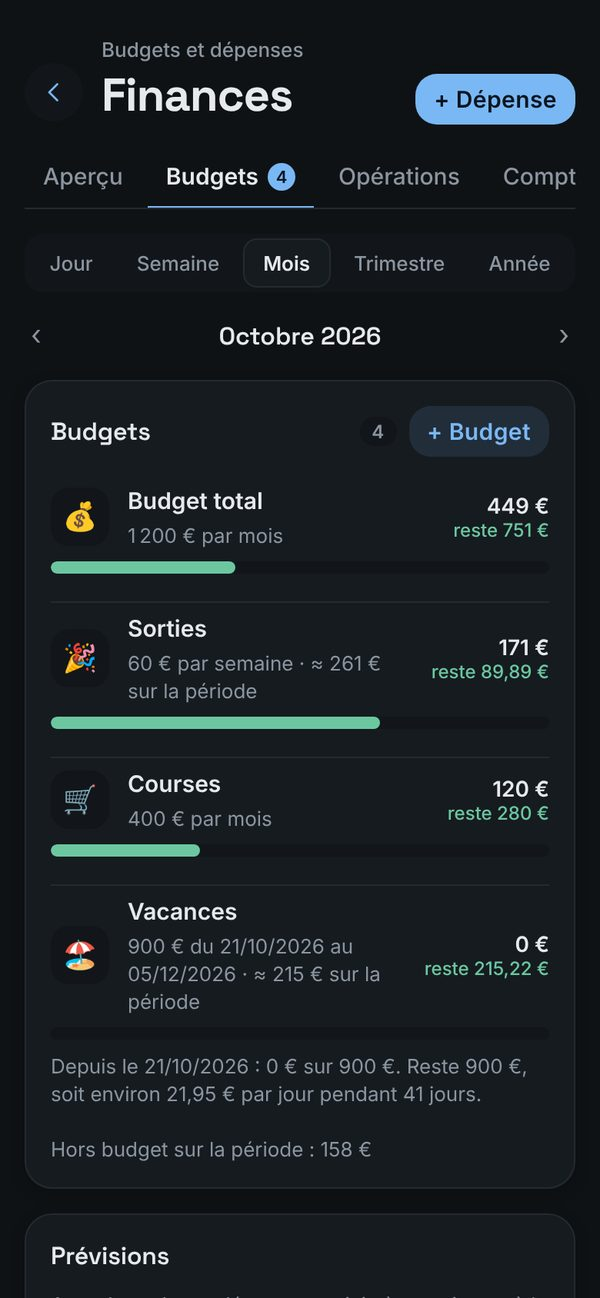
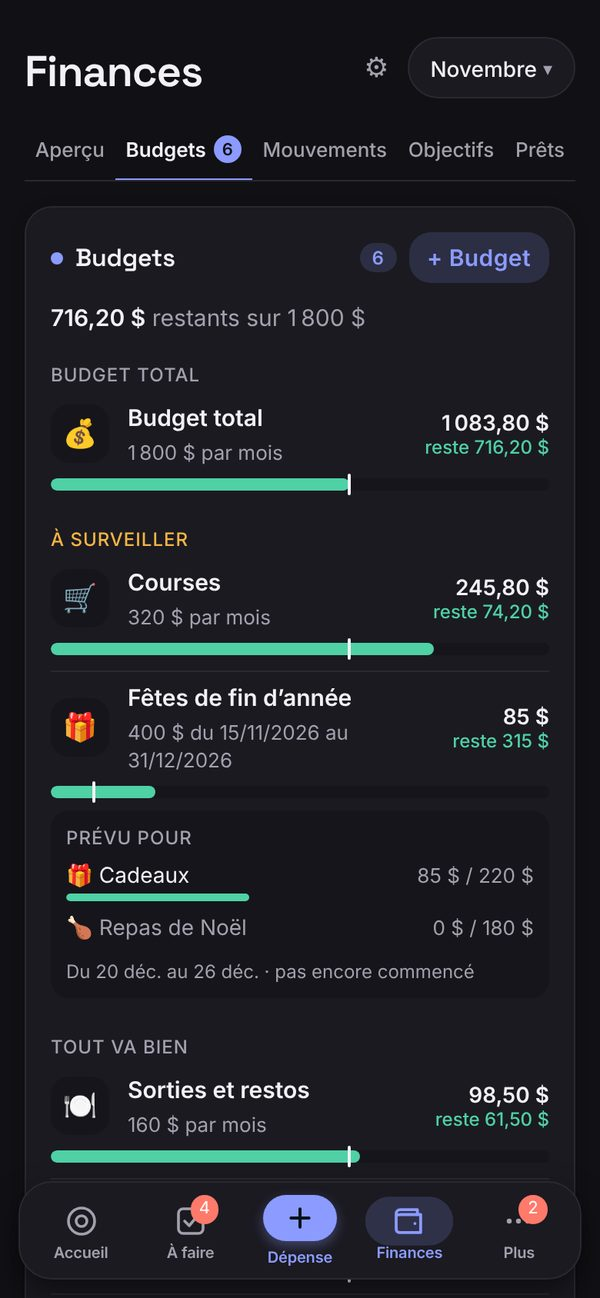
Page d'accueil : finances mises en avant, textes et captures à jour
- Nouvelle section Finances juste après l'en-tête (et en tête du menu) :
  ce qui est gratuit (budgets par jour, semaine, mois ou enveloppe ;
  dépense en une phrase ; objectifs), puis ce que la formule Finances
  ajoute, avec son prix et l'essai de 14 jours.
- Textes corrigés selon les formules actuelles : l'import de relevés et
  les autres devises relèvent de Finances, les brouillons de relance du
  copilote de Pro. Nouvelle question : Me ne se connecte pas à la banque.
- Captures refaites depuis l'app actuelle avec des données d'exemple au
  18 novembre 2026 : Aujourd'hui (téléphone et ordinateur), Finances,
  Budgets, bilan du mois, projet et planning. Copies du manifeste à jour.
- Image de partage (og.jpg) refaite avec le nouveau logo et les écrans
  Finances ; données structurées en dollars avec les trois formules.

Claude-Session: https://claude.ai/code/session_013pZHjea4pwY6EHsaSiyPHp

diff --git a/src/components/accueil-public.tsx b/src/components/accueil-public.tsx
@@ -21,49 +21,49 @@ const EXEMPLES: { label: string; phrase: string; puces: string[]; rubrique: stri
   { label: 'Relance', phrase: 'Relancer Paul jeudi pour le devis', puces: ['Relance', 'Paul', 'jeudi', 'Devis'], rubrique: 'Relances', titre: 'Relancer Paul', detail: 'Au sujet du devis', badge: 'Jeudi', suite: 'Ajoutée à tes relances, avec un rappel jeudi.', couleur: 'corail' },
   { label: 'Tâche', phrase: 'Envoyer la facture demain urgent', puces: ['Tâche', 'Envoyer la facture', 'demain', 'importante'], rubrique: 'Tâches', titre: 'Envoyer la facture', detail: 'Importante', badge: 'Demain', suite: 'Ajoutée à tes tâches, pour demain.', couleur: 'ambre' },
   { label: 'Habitude', phrase: 'Sport tous les jours', puces: ['Habitude', 'Sport', 'chaque jour'], rubrique: 'Habitudes', titre: 'Sport', detail: 'Chaque jour', badge: '+10 pts', suite: 'Ajoutée à tes habitudes, à cocher chaque jour.', couleur: 'menthe' },
-  { label: 'Dépense', phrase: '20 usd resto hier', puces: ['Dépense', '20 $', 'Resto', 'hier'], rubrique: 'Finances', titre: 'Resto', detail: 'Hier', badge: '20 $', suite: 'Ajoutée à tes dépenses, convertie dans ta devise.', couleur: 'indigo' },
+  { label: 'Dépense', phrase: '20 usd resto hier', puces: ['Dépense', '20 $', 'Resto', 'hier'], rubrique: 'Finances', titre: 'Resto', detail: 'Hier', badge: '20 $', suite: 'Ajoutée à tes dépenses, dans la catégorie Restaurants.', couleur: 'indigo' },
 ];
 
 /** Les rubriques, chacune dans sa couleur, comme dans l'app. */
 const RUBRIQUES: { nom: string; texte: string; exemple: string; etat: string; couleur: Vive; pro?: boolean }[] = [
-  { nom: 'Relances', texte: 'Me te dit qui relancer et quand, et prépare le brouillon du message.', exemple: 'Paul · devis', etat: 'Jeudi', couleur: 'corail' },
+  { nom: 'Relances', texte: 'Me te dit qui relancer et quand, avec un rappel discret ou insistant selon l’enjeu.', exemple: 'Paul · devis', etat: 'Jeudi', couleur: 'corail' },
   { nom: 'Tâches', texte: 'Tâches, projets et sous-tâches, avec un rappel à la date qui compte.', exemple: 'Envoyer le contrat signé', etat: 'Aujourd’hui', couleur: 'ambre' },
   { nom: 'Habitudes', texte: 'Coche chaque jour, garde ta série et gagne des points.', exemple: 'Lecture · 20 min', etat: '6 j de série', couleur: 'menthe' },
-  { nom: 'Finances', texte: 'Budgets, revenus et prévisions dans ta devise, avec ton relevé bancaire importé.', exemple: 'Courses · reste du mois', etat: '120 $', couleur: 'indigo' },
+  { nom: 'Finances', texte: 'Budgets, dépenses, revenus et objectifs, avec ce qu’il te reste à dépenser chaque jour.', exemple: 'Courses · reste du mois', etat: '74 $', couleur: 'indigo' },
   { nom: 'Mails', texte: 'Gmail et Outlook dans l’app : un mail devient une relance ou une tâche.', exemple: 'Sophie · proposition', etat: 'Lié', couleur: 'lagon', pro: true },
   { nom: 'Copilote', texte: 'Pose une question, reçois ton plan du jour et tes brouillons de relance.', exemple: 'Plan du jour', etat: '5 étapes', couleur: 'lilas', pro: true },
 ];
 
 const ATOUTS: { icone: IconeNom; titre: string; texte: string; court: string; couleur: Vive }[] = [
   { icone: 'cloche', titre: 'Un rappel à ta façon', texte: 'Discret, insistant ou en coach : tu choisis le ton de chaque tâche et de chaque habitude.', court: 'Discret, insistant ou en coach.', couleur: 'ambre' },
-  { icone: 'portefeuille', titre: 'Dans ta devise', texte: 'Dollars, euros, FCFA ou 15 autres devises, converties pour toi. Ton relevé CSV s’importe en un geste.', court: 'Dollars, euros, FCFA et 15 autres.', couleur: 'indigo' },
+  { icone: 'portefeuille', titre: 'Dans ta devise', texte: 'Dollars, francs congolais, euros, FCFA ou 14 autres : tes budgets se tiennent dans la devise que tu utilises.', court: 'Dollars, francs, euros, FCFA et 14 autres.', couleur: 'indigo' },
   { icone: 'micro', titre: 'À la voix ou au clavier', texte: 'Dicte ta phrase quand tu as les mains prises. Me la comprend comme si tu l’avais tapée.', court: 'Dicte ta phrase, les mains prises.', couleur: 'lilas' },
   { icone: 'onde', titre: 'Sur tous tes appareils', texte: 'Téléphone ou ordinateur : ce que tu modifies à deux endroits est fusionné, jamais écrasé.', court: 'Téléphone et ordinateur, toujours à jour.', couleur: 'menthe' },
 ];
 
-/** Captures de l'app (données d'exemple), prises sur téléphone (390 px) et sur ordinateur (1280 px). */
-const ECRANS: { key: 'journee' | 'budgets' | 'projets'; court: string; titre: string; texte: string; couleur: Vive; tel: ImageSourcePropType; altTel: string; pc: ImageSourcePropType; altPc: string }[] = [
+/** Captures de l'app (données d'exemple au 18 novembre 2026), prises sur téléphone (390 px) et sur ordinateur (1440 px). */
+const ECRANS: { key: 'journee' | 'finances' | 'projets'; court: string; titre: string; texte: string; couleur: Vive; tel: ImageSourcePropType; altTel: string; pc: ImageSourcePropType; altPc: string }[] = [
   {
     key: 'journee',
     court: 'Ta journée',
     titre: 'Ta journée en un coup d’œil',
-    texte: 'Qui relancer, quoi faire, quelles habitudes cocher.',
+    texte: 'La mission du jour, le prochain rendez-vous, qui relancer et quelles habitudes cocher.',
     couleur: 'indigo',
     tel: require('@/assets/images/apercu/tel-accueil.jpg'),
     altTel: "L'écran Aujourd'hui : la mission du jour, le prochain rendez-vous et la liste des choses à faire",
-    pc: require('@/assets/images/apercu/pc-finances.jpg'),
-    altPc: 'Finances sur ordinateur : le dépensé du mois, le reste, et les dépenses jour par jour face au budget',
+    pc: require('@/assets/images/apercu/pc-accueil.jpg'),
+    altPc: "L'écran Aujourd'hui sur ordinateur : la mission du jour, les choses à faire, le résumé des finances et des objectifs",
   },
   {
-    key: 'budgets',
-    court: 'Budgets',
+    key: 'finances',
+    court: 'Finances',
     titre: 'Des budgets qui tiennent',
     texte: 'Par jour, par mois ou jusqu’à une date, avec ce qu’il te reste à dépenser.',
     couleur: 'indigo',
     tel: require('@/assets/images/apercu/tel-budgets.jpg'),
-    altTel: "L'onglet Budgets de Finances : un budget total, des budgets par catégorie et un budget de vacances",
+    altTel: "L'onglet Budgets de Finances : le budget total, les budgets à surveiller et l'enveloppe des fêtes avec son plan",
     pc: require('@/assets/images/apercu/pc-finances.jpg'),
-    altPc: 'Finances sur ordinateur : le dépensé du mois, le reste, et les dépenses jour par jour face au budget',
+    altPc: 'Finances sur ordinateur : ce qu’il reste à dépenser ce mois-ci, les budgets et les paiements à venir',
   },
   {
     key: 'projets',
@@ -78,14 +78,34 @@ const ECRANS: { key: 'journee' | 'budgets' | 'projets'; court: string; titre: st
   },
 ];
 
+/** Ce que Finances fait dès l'offre Gratuit. */
+const FINANCES_GRATUIT: { icone: IconeNom; titre: string; texte: string }[] = [
+  { icone: 'jour', titre: 'Des budgets à ta mesure', texte: 'Par jour, par semaine, par mois ou jusqu’à une date, comme les fêtes. Me te dit si tu tiens le rythme.' },
+  { icone: 'crayon', titre: 'Une dépense en une phrase', texte: '« 20 usd resto hier » suffit : le montant, le jour et la catégorie sont trouvés pour toi.' },
+  { icone: 'etoile', titre: 'Des objectifs qui avancent', texte: 'Voyage, fonds d’urgence : Me calcule le versement de chaque mois pour tenir la date.' },
+];
+
+/** Ce que la formule Finances ajoute, dans l'ordre de `INCLUS_FINANCES` (lib/abonnement.ts). */
+const FINANCES_FORMULE: { icone: IconeNom; titre: string; texte: string }[] = [
+  { icone: 'trombone', titre: 'Reçus et factures', texte: 'La photo du reçu ou le PDF de la facture, joint à la dépense.' },
+  { icone: 'dossier', titre: 'Relevés importés', texte: 'Le relevé CSV de ta banque ou de ton mobile money, rangé sans doublon.' },
+  { icone: 'portefeuille', titre: 'Comptes et devises', texte: 'Banque, M-Pesa et cash, chacun avec son solde, en dollars comme en francs.' },
+  { icone: 'equipe', titre: 'Prêts et dettes', texte: 'Qui te doit quoi, ce que tu dois, et un rappel le jour prévu.' },
+  { icone: 'calendrier', titre: 'Paiements à venir', texte: 'Loyer, internet, abonnements : Me te prévient la veille.' },
+  { icone: 'stats', titre: 'Bilan du mois', texte: 'Où est parti ton argent, comparé au mois d’avant, envoyé le 1er.' },
+  { icone: 'cloche', titre: 'Alertes de budget', texte: 'En push ou par email, dès 80 %, 90 % ou au dépassement.' },
+];
+
 const QUESTIONS: { question: string; reponse: string }[] = [
   { question: 'Faut-il payer pour commencer ?', reponse: `Non. Ton compte commence avec ${TARIFS.essaiJours} jours de tout Pro offerts, sans moyen de paiement. À la fin, tu restes en Gratuit et tu gardes toutes tes données, ou tu choisis Finances (${fmtPrix(TARIFS.finances.mensuel, TARIFS.devise)} par mois) ou Pro (${fmtPrix(TARIFS.pro.mensuel, TARIFS.devise)} par mois).` },
   { question: 'Comment se fait le paiement ?', reponse: 'Par mobile money (M-Pesa, Orange Money ou Airtel Money) avec FlexPaie, en une fois pour un mois ou pour un an.' },
   { question: 'L’abonnement se renouvelle-t-il tout seul ?', reponse: 'Non. Me te prévient avant la fin de ta période, et tu choisis de continuer ou non.' },
+  { question: 'Me se connecte-t-il à ma banque ?', reponse: 'Non. Tu notes tes dépenses toi-même, ou, avec Finances, tu importes le relevé CSV exporté depuis ta banque ou ton mobile money. Me n’a jamais tes identifiants bancaires.' },
   { question: 'Puis-je l’utiliser sur téléphone et ordinateur ?', reponse: 'Oui. Tu retrouves les mêmes données partout, et ce que tu modifies à deux endroits est fusionné.' },
 ];
 
 const SECTIONS = [
+  { key: 'finances', label: 'Finances' },
   { key: 'rubriques', label: 'Fonctionnalités' },
   { key: 'apercu', label: 'Aperçu' },
   { key: 'tarifs', label: 'Tarifs' },
@@ -298,6 +318,121 @@ function Heros({ large, onConnexion, onInscription }: { large: boolean; onConnex
   );
 }
 
+/* ——— Finances, mises en avant ——— */
+
+/** Une fonction de Finances : pictogramme, titre et une phrase. */
+function Fonction({ icone, titre, texte, c, large }: { icone: IconeNom; titre: string; texte: string; c: string; large: boolean }) {
+  return (
+    <View style={{ flexDirection: 'row', alignItems: 'flex-start', gap: 14 }}>
+      <View style={{ width: large ? 40 : 36, height: large ? 40 : 36, borderRadius: 12, backgroundColor: alpha(c, C.sombre ? 0.16 : 0.12), alignItems: 'center', justifyContent: 'center' }}>
+        <Icone nom={icone} color={c} size={large ? 19 : 18} />
+      </View>
+      <View style={{ flex: 1, gap: 3 }}>
+        <Text accessibilityRole="header" aria-level={3} style={{ color: C.ink, fontFamily: F.titreM, fontSize: large ? 17 : 16, lineHeight: large ? 23 : 21 }}>
+          {titre}
+        </Text>
+        <Text style={{ color: C.muted, fontFamily: F.texte, fontSize: large ? 15 : 14, lineHeight: large ? 23 : 21 }}>{texte}</Text>
+      </View>
+    </View>
+  );
+}
+
+/** Deux écrans de Finances, l'un devant l'autre : ce qu'il reste à dépenser et le bilan du mois. */
+function DeuxTelephones({ largeur }: { largeur: number }) {
+  const decale = Math.round(largeur * 0.62);
+  const hauteur = Math.round((largeur - 12) * (1298 / 600)) + 12;
+  return (
+    <View style={{ width: largeur + decale, height: hauteur + 40, alignSelf: 'center' }}>
+      <View style={{ position: 'absolute', left: 0, top: 40, opacity: 0.9 }}>
+        <Telephone image={require('@/assets/images/apercu/tel-bilan.jpg')} alt="Le bilan du mois : dépensé, reçu, mis de côté, et où est parti l'argent par catégorie" largeur={largeur} />
+      </View>
+      <View style={{ position: 'absolute', left: decale, top: 0 }}>
+        <Telephone image={require('@/assets/images/apercu/tel-finances.jpg')} alt="L'aperçu de Finances : ce qu'il reste à dépenser ce mois-ci, par jour, et le reste de chaque budget" largeur={largeur} />
+      </View>
+    </View>
+  );
+}
+
+function Finances({ large, onInscription }: { large: boolean; onInscription: () => void }) {
+  const t = teinte(vive('indigo'));
+  const prix = fmtPrix(TARIFS.finances.mensuel, TARIFS.devise);
+  const prixAn = fmtPrix(TARIFS.finances.annuel, TARIFS.devise);
+  const formule = (
+    <View style={{ gap: large ? 28 : 20, padding: large ? 32 : 20, borderRadius: large ? 28 : 22, backgroundColor: C.surface, borderWidth: 1.5, borderColor: t.ligne }}>
+      <View style={{ flexDirection: large ? 'row' : 'column', alignItems: large ? 'center' : 'stretch', justifyContent: 'space-between', gap: large ? 32 : 14 }}>
+        <View style={{ gap: 6, flexShrink: 1 }}>
+          <View style={{ flexDirection: 'row', alignItems: 'center', gap: 8 }}>
+            <Point c={t.c} taille={10} />
+            <Text accessibilityRole="header" aria-level={3} style={{ color: C.ink, fontFamily: F.titreM, fontSize: large ? 22 : 19 }}>
+              Va plus loin avec la formule Finances
+            </Text>
+          </View>
+          <Text style={{ color: C.muted, fontFamily: F.texte, fontSize: large ? 15 : 14, lineHeight: large ? 23 : 21 }}>
+            Tout ce qui précède reste gratuit. Finances ajoute ce qu’il faut pour tenir ton argent au propre, compte par compte.
+          </Text>
+        </View>
+        <View style={{ flexDirection: large ? 'row' : 'column', alignItems: large ? 'center' : 'stretch', gap: large ? 20 : 12 }}>
+          <View style={{ gap: 2, alignItems: large ? 'flex-end' : 'flex-start' }}>
+            <View style={{ flexDirection: 'row', alignItems: 'baseline', gap: 6 }}>
+              <Text style={{ color: C.ink, fontFamily: F.titre, fontSize: large ? 30 : 28, letterSpacing: -0.8 }}>{prix}</Text>
+              <Text style={{ color: C.muted, fontFamily: F.texteM, fontSize: 14 }}>par mois</Text>
+            </View>
+            <Text style={{ color: C.muted, fontFamily: F.texte, fontSize: 13 }}>ou {prixAn} par an</Text>
+          </View>
+          <Bouton label={`Essayer ${TARIFS.essaiJours} jours gratuits`} accessibilityLabel="Créer mon compte et essayer Finances" onPress={onInscription} />
+        </View>
+      </View>
+      <View style={{ height: 1, backgroundColor: C.line }} />
+      <View style={{ flexDirection: large ? 'row' : 'column', flexWrap: 'wrap', rowGap: large ? 28 : 18, columnGap: 28 }}>
+        {FINANCES_FORMULE.map((x) => (
+          <View key={x.titre} style={large ? { flexBasis: '22%', flexGrow: 1 } : undefined}>
+            <Fonction {...x} c={t.c} large={large} />
+          </View>
+        ))}
+        {large ? (
+          <View style={{ flexBasis: '22%', flexGrow: 1, justifyContent: 'center', padding: 16, borderRadius: 16, backgroundColor: C.sunk, borderWidth: 1, borderColor: C.line }}>
+            <Text style={{ color: C.muted, fontFamily: F.texte, fontSize: 14, lineHeight: 21 }}>
+              Pendant les {TARIFS.essaiJours} jours d’essai, tout est ouvert. Ensuite, tu choisis : Gratuit, Finances ou Pro.
+            </Text>
+          </View>
+        ) : null}
+      </View>
+    </View>
+  );
+
+  return (
+    <View style={{ backgroundColor: alpha(t.c, C.sombre ? 0.05 : 0.06), borderTopWidth: 1, borderBottomWidth: 1, borderColor: t.ligne }}>
+      <Bloc large={large} style={{ paddingVertical: large ? 104 : 40, gap: large ? 64 : 28 }}>
+        <View style={{ flexDirection: large ? 'row' : 'column', alignItems: large ? 'center' : 'stretch', gap: large ? 64 : 28 }}>
+          <View style={{ flex: large ? 1 : undefined, gap: large ? 32 : 20 }}>
+            <View style={{ gap: 12 }}>
+              <View style={{ alignSelf: 'flex-start', flexDirection: 'row', alignItems: 'center', gap: 8, paddingLeft: 8, paddingRight: 12, paddingVertical: 5, borderRadius: 999, backgroundColor: t.douce, borderWidth: 1, borderColor: t.ligne }}>
+                <Point c={t.c} />
+                <Text style={{ color: C.ink, fontFamily: F.texteM, fontSize: 13 }}>Finances</Text>
+              </View>
+              <Titre2 large={large}>Sache chaque jour ce qu’il te reste à dépenser.</Titre2>
+              <Intro>Budgets, dépenses, revenus et objectifs sont inclus gratuitement. Tu notes une dépense en une phrase, Me fait les comptes.</Intro>
+            </View>
+            {/* Sur téléphone, les écrans viennent avant le détail. */}
+            {large ? null : <DeuxTelephones largeur={190} />}
+            <View style={{ gap: large ? 24 : 18 }}>
+              {FINANCES_GRATUIT.map((x) => (
+                <Fonction key={x.titre} {...x} c={t.c} large={large} />
+              ))}
+            </View>
+          </View>
+          {large ? (
+            <View style={{ flex: 1, alignItems: 'center' }}>
+              <DeuxTelephones largeur={250} />
+            </View>
+          ) : null}
+        </View>
+        {formule}
+      </Bloc>
+    </View>
+  );
+}
+
 /* ——— Rubriques ——— */
 
 function Rubriques({ large }: { large: boolean }) {
@@ -308,7 +443,7 @@ function Rubriques({ large }: { large: boolean }) {
     </View>
   );
   return (
-    <Bloc large={large} style={{ gap: large ? 40 : 20, paddingBottom: large ? 112 : 40, paddingTop: large ? 0 : 40, borderTopWidth: large ? 0 : 1, borderTopColor: C.line }}>
+    <Bloc large={large} style={{ gap: large ? 40 : 20, paddingVertical: large ? 112 : 40 }}>
       <View style={{ gap: 8 }}>
         <Titre2 large={large}>Tout ce que tu suis, au même endroit.</Titre2>
         <Intro>Chaque rubrique a sa couleur, ici comme dans l’app.</Intro>
@@ -695,6 +830,9 @@ export function AccueilPublic({ onConnexion, onInscription }: { onConnexion: () 
         </View>
 
         <Heros large={large} onConnexion={onConnexion} onInscription={onInscription} />
+        <View {...repere('finances')}>
+          <Finances large={large} onInscription={onInscription} />
+        </View>
         <View {...repere('rubriques')}>
           <Rubriques large={large} />
         </View>

diff --git a/public/index.html b/public/index.html
@@ -35,7 +35,7 @@
     <meta property="og:image:type" content="image/jpeg" />
     <meta property="og:image:width" content="1200" />
     <meta property="og:image:height" content="630" />
-    <meta property="og:image:alt" content="L'écran Finances de Me, avec ses budgets et son plan de dépenses." />
+    <meta property="og:image:alt" content="L'écran Finances de Me sur ordinateur et sur téléphone : ce qu'il reste à dépenser ce mois-ci et le reste de chaque budget." />
     <meta name="twitter:card" content="summary_large_image" />
     <meta name="twitter:title" content="Me · ton assistant personnel" />
     <meta
@@ -67,13 +67,20 @@
         "url": "%SITE%/",
         "image": "%SITE%/og.jpg",
         "description": "Me réunit tes relances, tâches, habitudes, projets, budgets et ton agenda au même endroit, et te rappelle ce qui compte au bon moment.",
-        "offers": { "@type": "Offer", "price": "0", "priceCurrency": "EUR" },
+        "offers": [
+          { "@type": "Offer", "name": "Gratuit", "price": "0", "priceCurrency": "USD" },
+          { "@type": "Offer", "name": "Finances", "price": "1.99", "priceCurrency": "USD" },
+          { "@type": "Offer", "name": "Pro", "price": "4.99", "priceCurrency": "USD" }
+        ],
         "featureList": [
           "Mission du jour",
           "Relances",
           "Tâches et habitudes",
           "Projets et planning",
           "Budgets, dépenses et revenus",
+          "Objectifs d'épargne",
+          "Comptes, devises et relevés bancaires",
+          "Prêts, paiements à venir et bilan du mois",
           "Agenda et briefing du matin",
           "Statistiques et rapports"
         ]

diff --git a/src/lib/abonnement.ts b/src/lib/abonnement.ts
@@ -50,7 +50,7 @@ export const estFinances = (e: EtatAbonnement | null | undefined) => !e || e.pro
 
 /**
  * Tarifs affichés avant connexion (sans serveur à interroger). À garder identiques à
- * me-api/src/services/abonnements/offres.ts et à public/cgv.html.
+ * me-api/src/services/abonnements/offres.ts, à public/cgv.html et aux offres de public/index.html.
  */
 export const TARIFS = {
   devise: 'USD',

diff --git a/CHANGELOG.md b/CHANGELOG.md
@@ -16,6 +16,7 @@ Les plus récents sont en haut. Chaque ligne dit ce que ça change pour l'utilis
 ### Page d'accueil, pages légales et icône (app)
 - **Nouvelle page d'accueil** pour les visiteurs, dans le style des écrans de l'app : menu des sections sur ordinateur, démo de l'ajout en une phrase avec des exemples au choix, six rubriques (dont Mails et Copilote), aperçu de l'app, tarifs Gratuit et Pro (mensuel ou annuel) et questions fréquentes.
 - **Pages légales** : droit de la République démocratique du Congo, contact à mingandajeereq@gmail.com, et plus aucun champ « à compléter ». Nouvelle version des conditions de vente (2 novembre 2026).
+- **Finances mises en avant** sur la page d'accueil : une section juste après l'en-tête, avec ce qui est gratuit (budgets, dépense en une phrase, objectifs), ce que la formule Finances ajoute et son prix. Captures et image de partage refaites depuis l'app actuelle (Aujourd'hui, Finances, bilan du mois, projet et planning). Textes corrigés : l'import des relevés et les autres devises relèvent de Finances, les brouillons de relance du copilote de Pro.
 - **Nouvelle icône** : « Me » sur indigo, comme le logo de l'app. Elle remplace l'icône du modèle Expo partout : onglet du navigateur, écran d'accueil iPhone et Android, écran de démarrage et appli web installée.
 ## 3 novembre 2026
 
